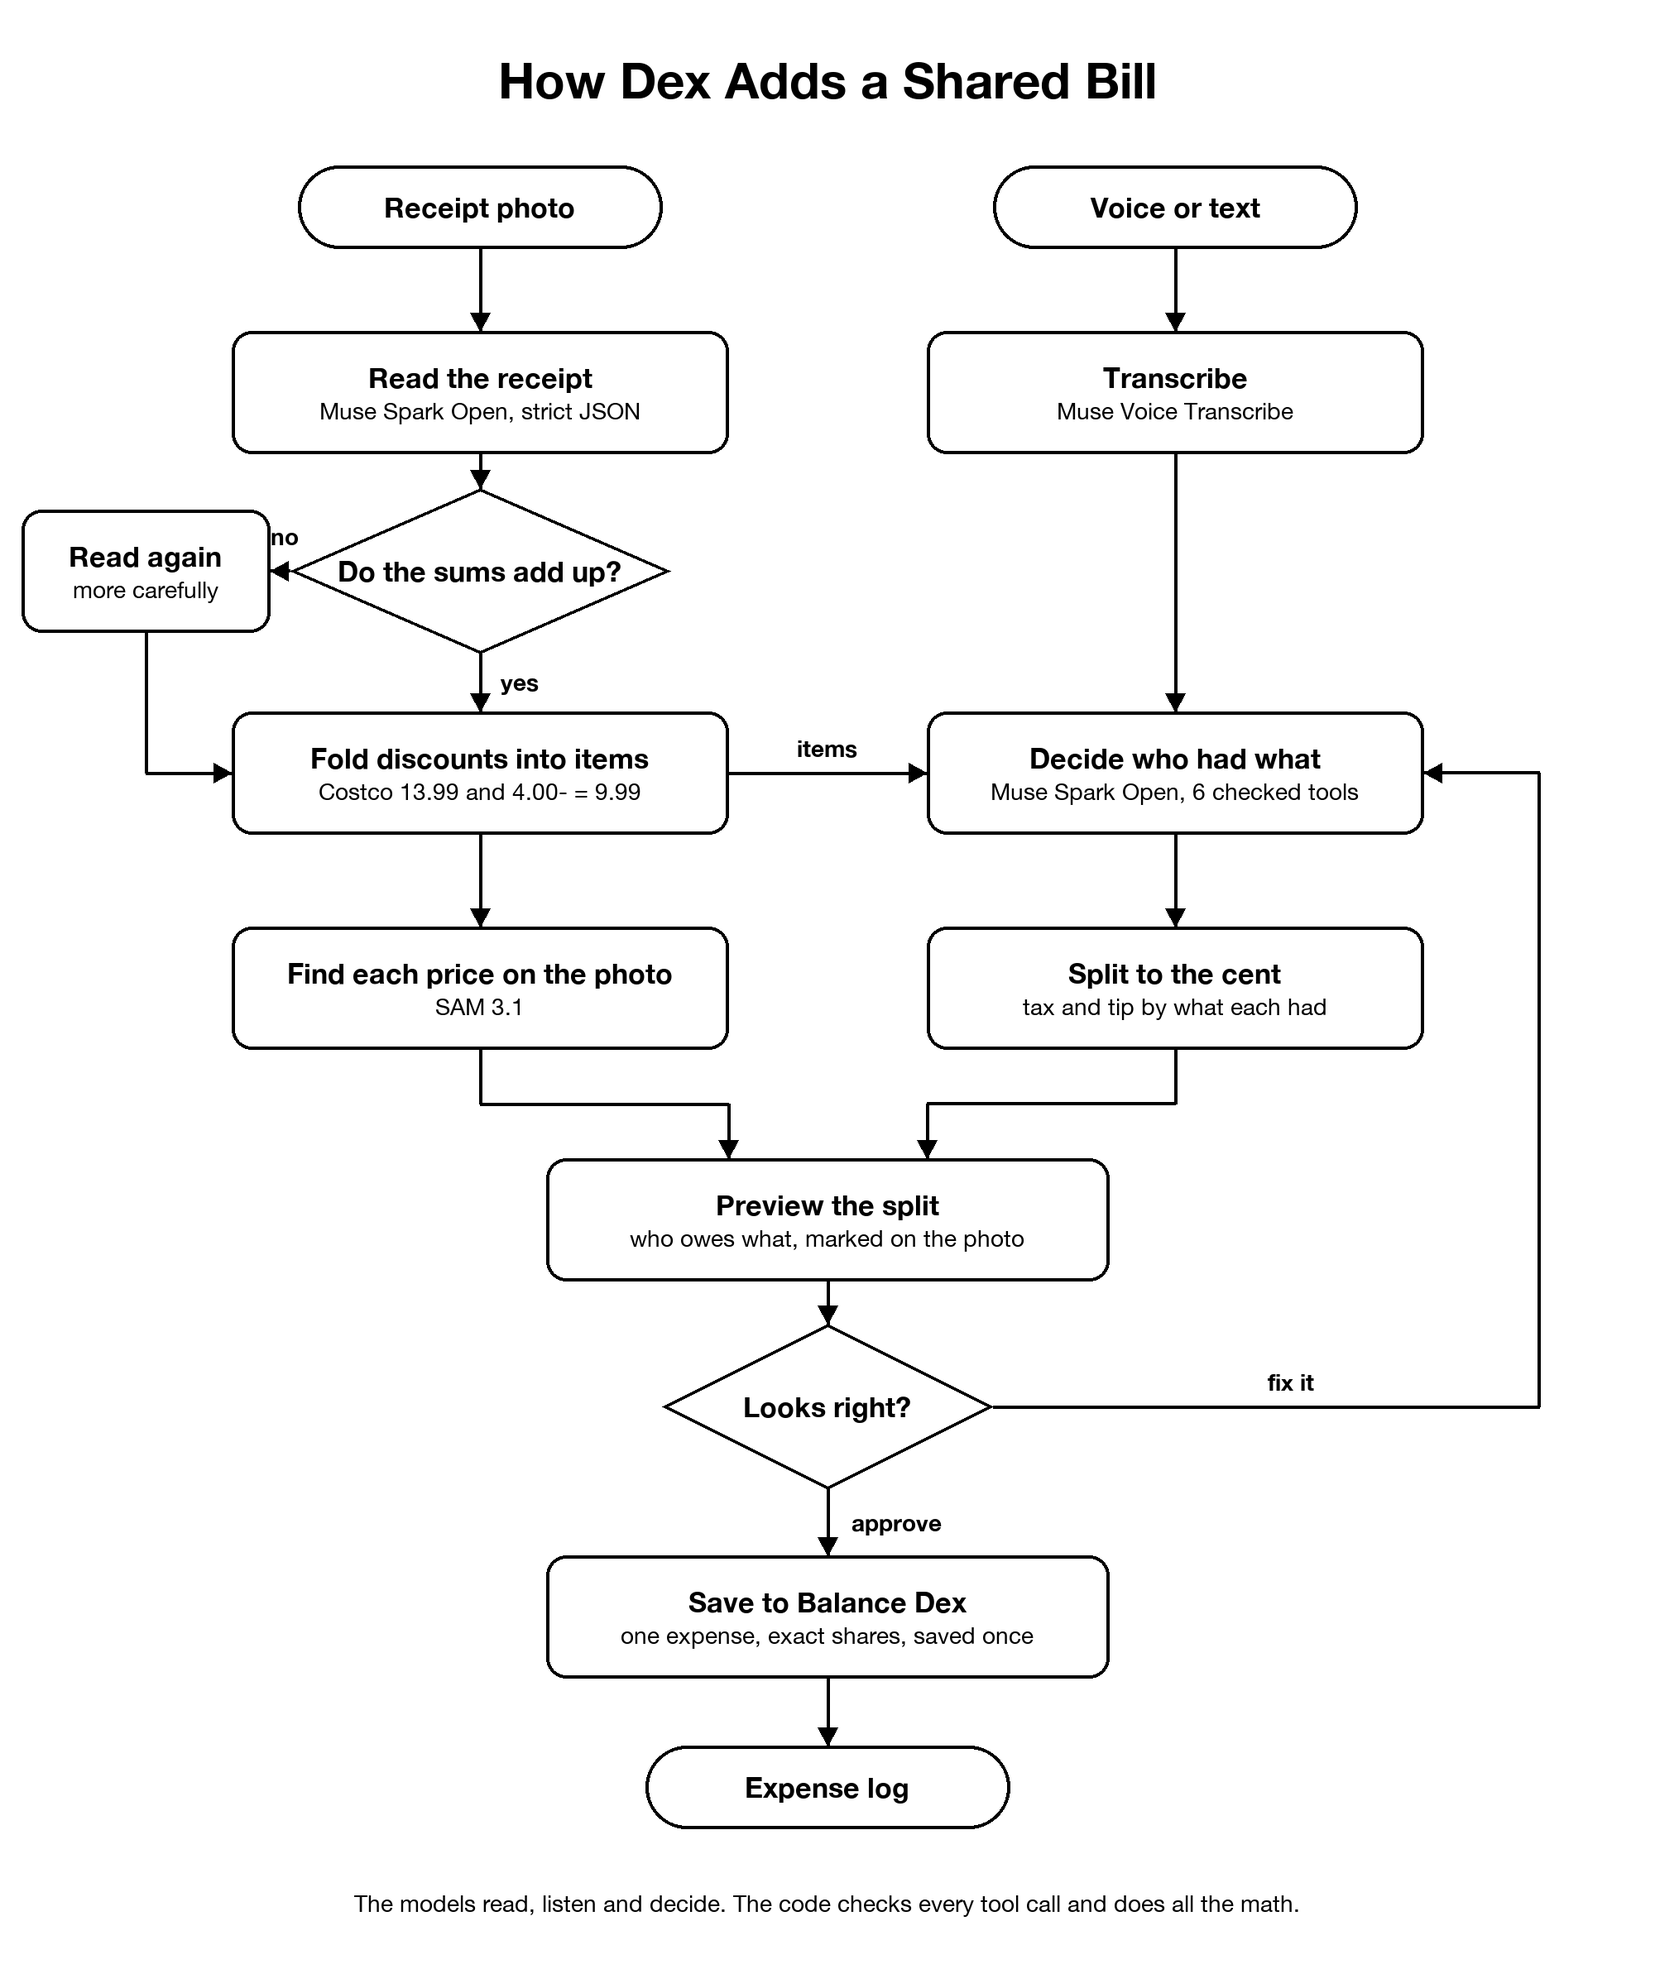
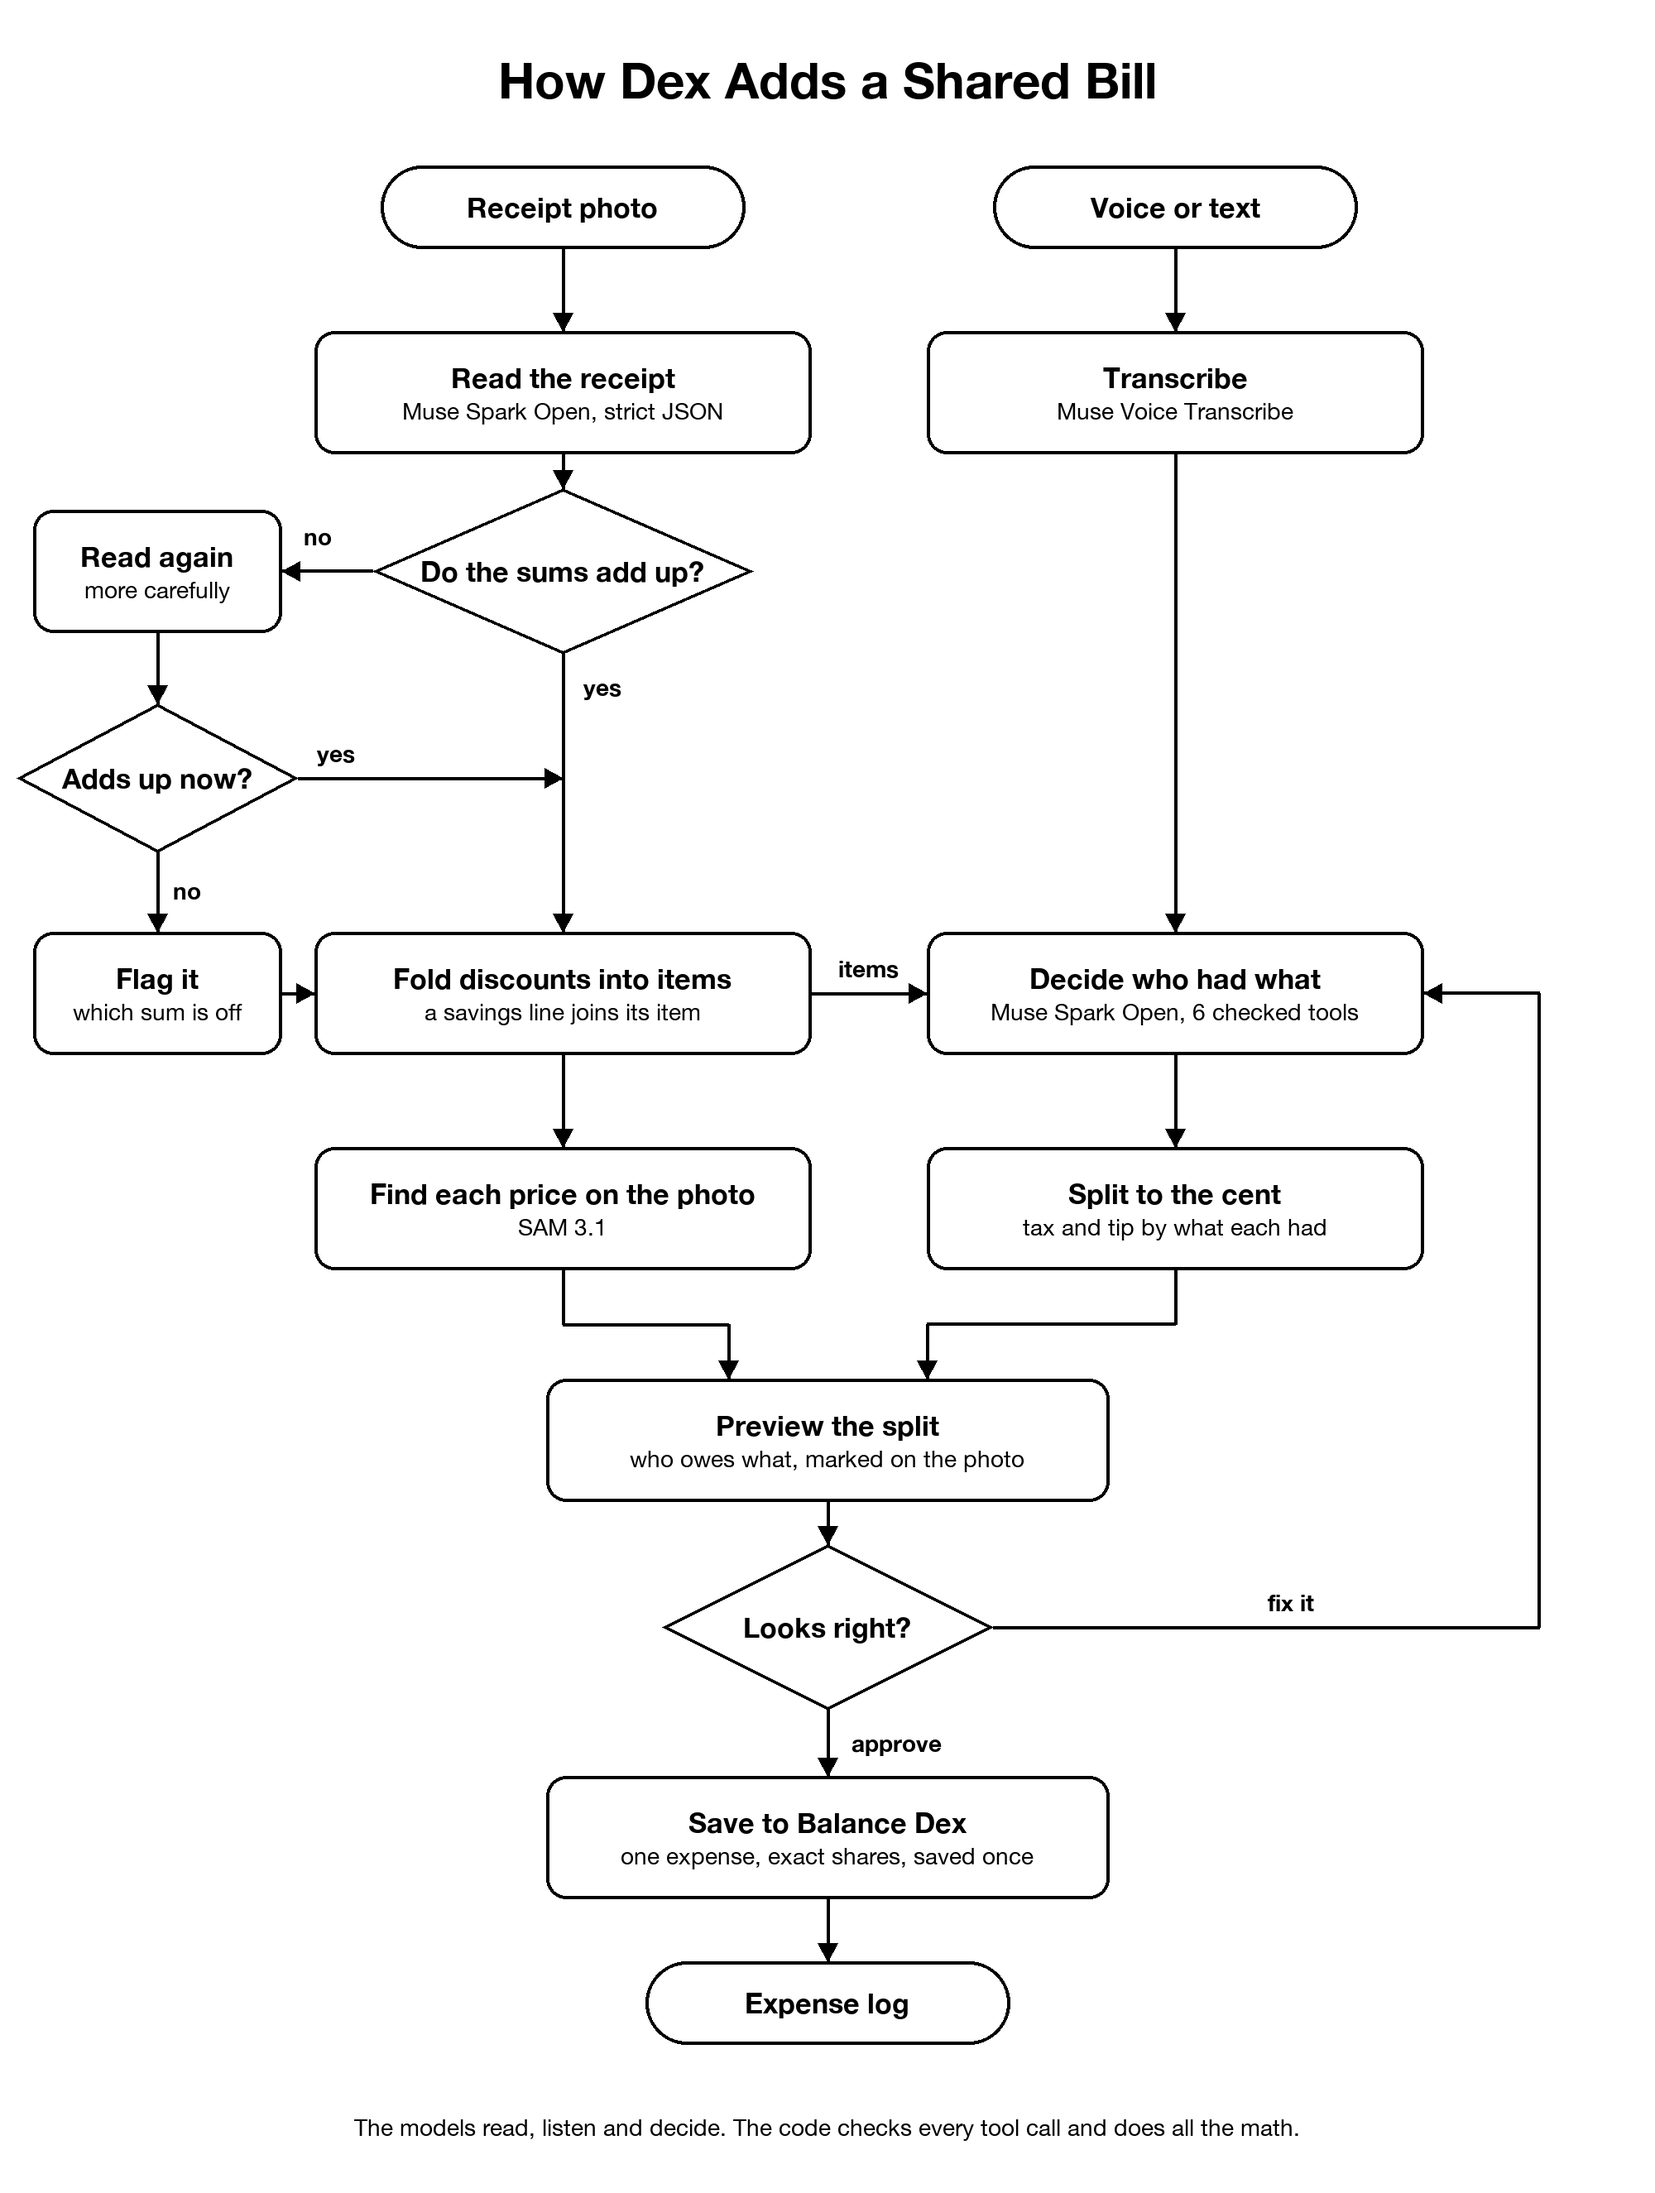
Workflow chart: what happens when the re-read still doesn't add up; no store named

diff --git a/scripts/draw_workflow.py b/scripts/draw_workflow.py
@@ -7,7 +7,7 @@ from pathlib import Path
 from PIL import Image, ImageDraw, ImageFont
 
 S = 2                      # drawn at 2x for a crisp image
-W, H = 1000, 1190          # layout units
+W, H = 1000, 1325          # layout units
 FONT = "/System/Library/Fonts/HelveticaNeue.ttc"
 OUT = Path(__file__).resolve().parent.parent / "docs" / "workflow.png"
 
@@ -65,8 +65,9 @@ def arrow(*pts, label=None, at=None):
         d.text((lx * S, ly * S), label, font=LABEL, fill="black", anchor="mm")
 
 
-L, R, C = 290, 710, 500
+L, R, C = 340, 710, 500
 BW, BH = 300, 74
+X = 95                     # the re-read column, left of the receipt path
 
 d.text((C * S, 48 * S), "How Dex Adds a Shared Bill", font=TITLE, fill="black", anchor="mm")
 
@@ -75,39 +76,44 @@ box(R, 125, 220, 50, ["Voice or text"], pill=True)
 
 box(L, 237, BW, BH, ["Read the receipt", "Muse Spark Open, strict JSON"])
 diamond(L, 345, 230, 100, "Do the sums add up?")
-box(88, 345, 150, BH, ["Read again", "more carefully"])
-box(L, 467, BW, BH, ["Fold discounts into items", "Costco 13.99 and 4.00- = 9.99"])
-box(L, 597, BW, BH, ["Find each price on the photo", "SAM 3.1"])
+box(X, 345, 150, BH, ["Read again", "more carefully"])
+diamond(X, 470, 170, 90, "Adds up now?")
+box(X, 600, 150, BH, ["Flag it", "which sum is off"])
+box(L, 600, BW, BH, ["Fold discounts into items", "a savings line joins its item"])
+box(L, 730, BW, BH, ["Find each price on the photo", "SAM 3.1"])
 
 box(R, 237, BW, BH, ["Transcribe", "Muse Voice Transcribe"])
-box(R, 467, BW, BH, ["Decide who had what", "Muse Spark Open, 6 checked tools"])
-box(R, 597, BW, BH, ["Split to the cent", "tax and tip by what each had"])
+box(R, 600, BW, BH, ["Decide who had what", "Muse Spark Open, 6 checked tools"])
+box(R, 730, BW, BH, ["Split to the cent", "tax and tip by what each had"])
 
-box(C, 737, 340, BH, ["Preview the split", "who owes what, marked on the photo"])
-diamond(C, 850, 200, 100, "Looks right?")
-box(C, 977, 340, BH, ["Save to Balance Dex", "one expense, exact shares, saved once"])
-box(C, 1080, 220, 50, ["Expense log"], pill=True)
+box(C, 870, 340, BH, ["Preview the split", "who owes what, marked on the photo"])
+diamond(C, 983, 200, 100, "Looks right?")
+box(C, 1110, 340, BH, ["Save to Balance Dex", "one expense, exact shares, saved once"])
+box(C, 1210, 220, 50, ["Expense log"], pill=True)
 
 arrow((L, 150), (L, 200))
 arrow((L, 274), (L, 295))
-arrow((L - 115, 345), (163, 345), label="no", at=(172, 324))
-arrow((88, 382), (88, 467), (140, 467))
-arrow((L, 395), (L, 430), label="yes", at=(L + 24, 412))
-arrow((L, 504), (L, 560))
+arrow((L - 115, 345), (X + 75, 345), label="no", at=(X + 97, 324))
+arrow((X, 382), (X, 425))
+arrow((X + 85, 470), (L, 470), label="yes", at=(X + 108, 455))
+arrow((X, 515), (X, 563), label="no", at=(X + 18, 538))
+arrow((X + 75, 600), (L - BW / 2, 600))
+arrow((L, 395), (L, 563), label="yes", at=(L + 24, 415))
+arrow((L, 637), (L, 693))
 
 arrow((R, 150), (R, 200))
-arrow((R, 274), (R, 430))
-arrow((L + BW / 2, 467), (R - BW / 2, 467), label="items", at=(C, 452))
-arrow((R, 504), (R, 560))
+arrow((R, 274), (R, 563))
+arrow((L + BW / 2, 600), (R - BW / 2, 600), label="items", at=((L + R) / 2, 585))
+arrow((R, 637), (R, 693))
 
-arrow((L, 634), (L, 667), (440, 667), (440, 700))
-arrow((R, 634), (R, 667), (560, 667), (560, 700))
-arrow((C, 774), (C, 800))
-arrow((C + 100, 850), (930, 850), (930, 467), (R + BW / 2, 467), label="fix it", at=(780, 835))
-arrow((C, 900), (C, 940), label="approve", at=(C + 42, 920))
-arrow((C, 1014), (C, 1055))
+arrow((L, 767), (L, 800), (440, 800), (440, 833))
+arrow((R, 767), (R, 800), (560, 800), (560, 833))
+arrow((C, 907), (C, 933))
+arrow((C + 100, 983), (930, 983), (930, 600), (R + BW / 2, 600), label="fix it", at=(780, 968))
+arrow((C, 1033), (C, 1073), label="approve", at=(C + 42, 1053))
+arrow((C, 1147), (C, 1185))
 
-d.text((C * S, 1150 * S), "The models read, listen and decide. The code checks every tool call and does all the math.",
+d.text((C * S, 1285 * S), "The models read, listen and decide. The code checks every tool call and does all the math.",
        font=BODY, fill="black", anchor="mm")
 
 img.save(OUT, optimize=True)
